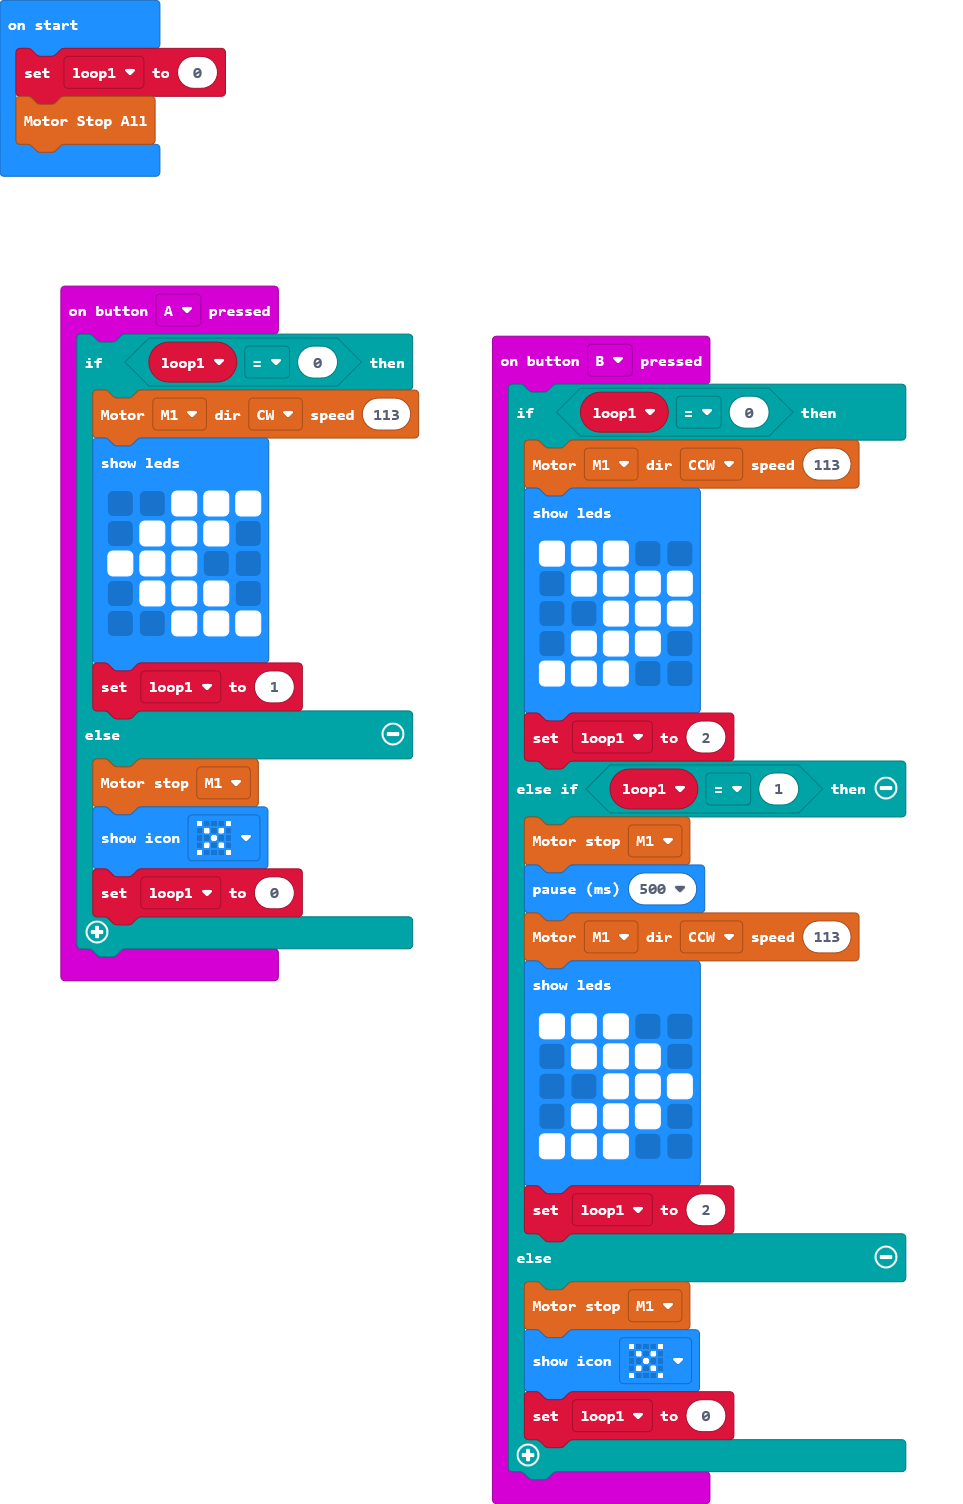
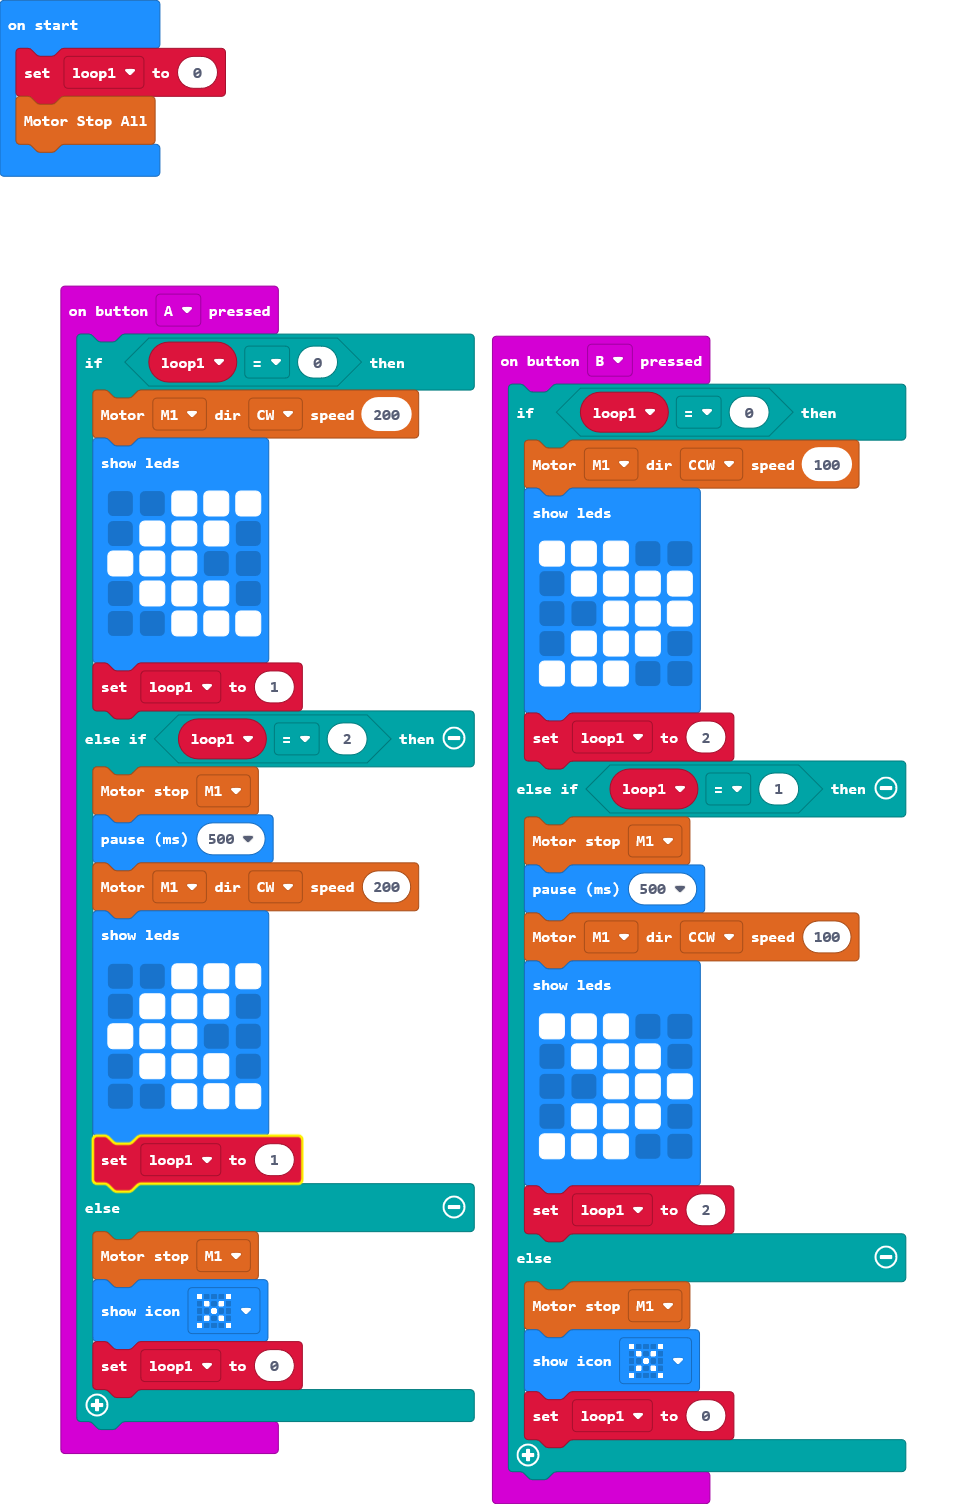
Update main.blocks, main.ts

Changed region(s): [[0.0623, 0.4688, 0.4984, 0.9688], [0.3738, 0.2188, 0.4984, 0.2812], [0.8411, 0.2812, 0.8723, 0.3125]]

diff --git a/main.ts b/main.ts
@@ -1,6 +1,18 @@
 input.onButtonPressed(Button.A, function () {
     if (loop1 == 0) {
-        motor.MotorRun(motor.Motors.M1, motor.Dir.CW, 113)
+        motor.MotorRun(motor.Motors.M1, motor.Dir.CW, 200)
+        basic.showLeds(`
+            . . # # #
+            . # # # .
+            # # # . .
+            . # # # .
+            . . # # #
+            `)
+        loop1 = 1
+    } else if (loop1 == 2) {
+        motor.motorStop(motor.Motors.M1)
+        basic.pause(500)
+        motor.MotorRun(motor.Motors.M1, motor.Dir.CW, 200)
         basic.showLeds(`
             . . # # #
             . # # # .
@@ -17,7 +29,7 @@ input.onButtonPressed(Button.A, function () {
 })
 input.onButtonPressed(Button.B, function () {
     if (loop1 == 0) {
-        motor.MotorRun(motor.Motors.M1, motor.Dir.CCW, 113)
+        motor.MotorRun(motor.Motors.M1, motor.Dir.CCW, 100)
         basic.showLeds(`
             # # # . .
             . # # # #
@@ -29,7 +41,7 @@ input.onButtonPressed(Button.B, function () {
     } else if (loop1 == 1) {
         motor.motorStop(motor.Motors.M1)
         basic.pause(500)
-        motor.MotorRun(motor.Motors.M1, motor.Dir.CCW, 113)
+        motor.MotorRun(motor.Motors.M1, motor.Dir.CCW, 100)
         basic.showLeds(`
             # # # . .
             . # # # .
